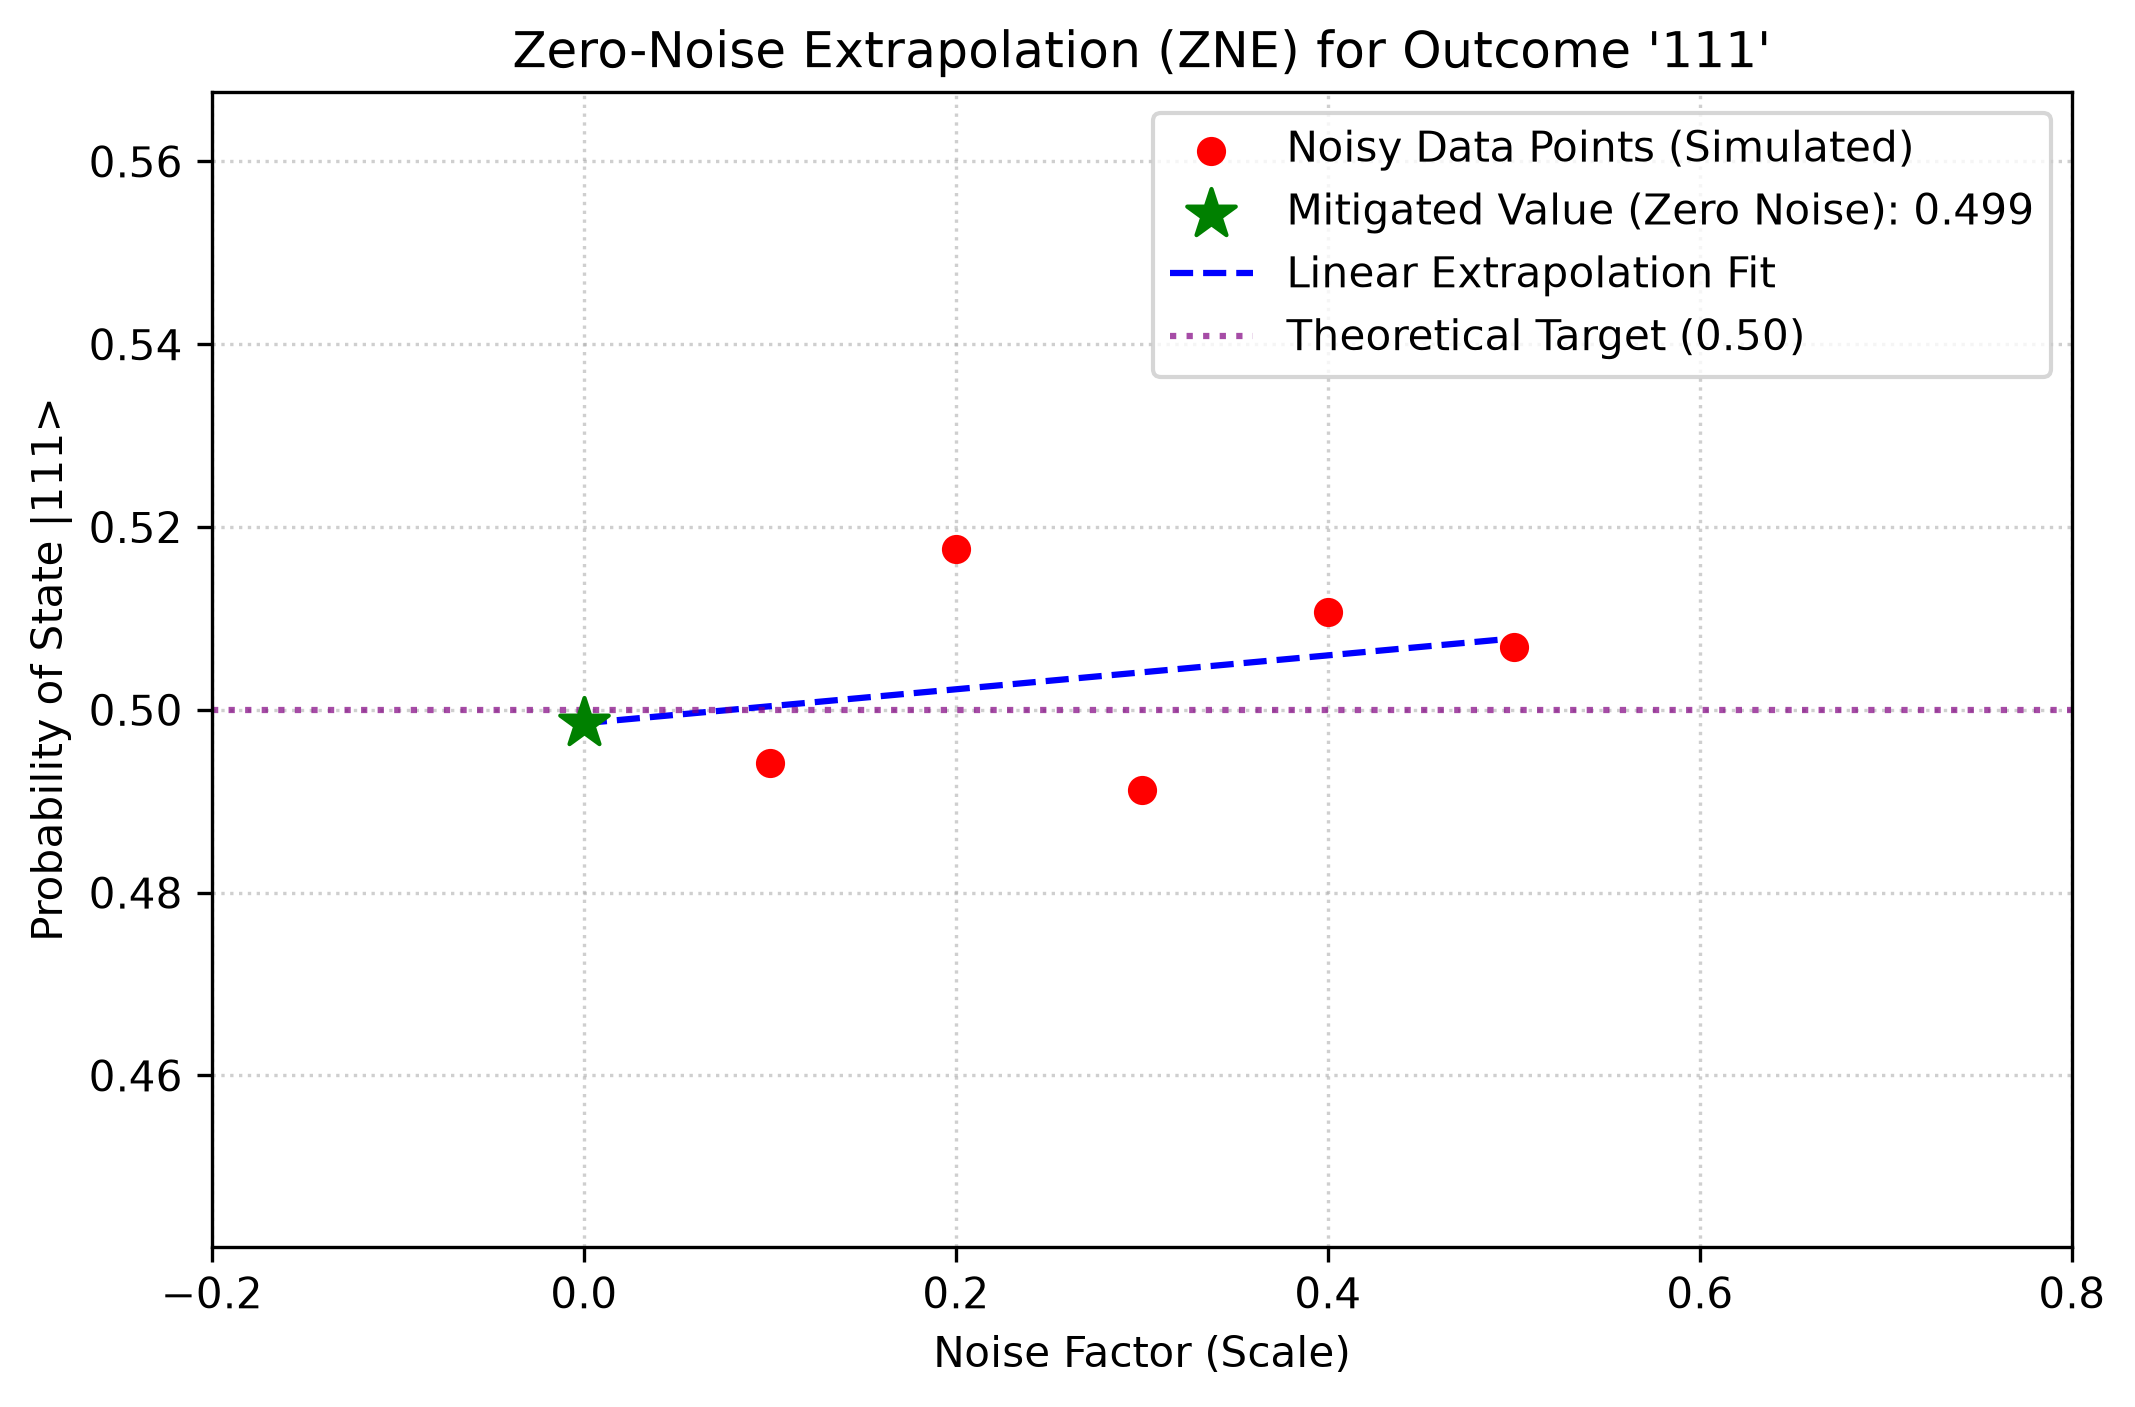
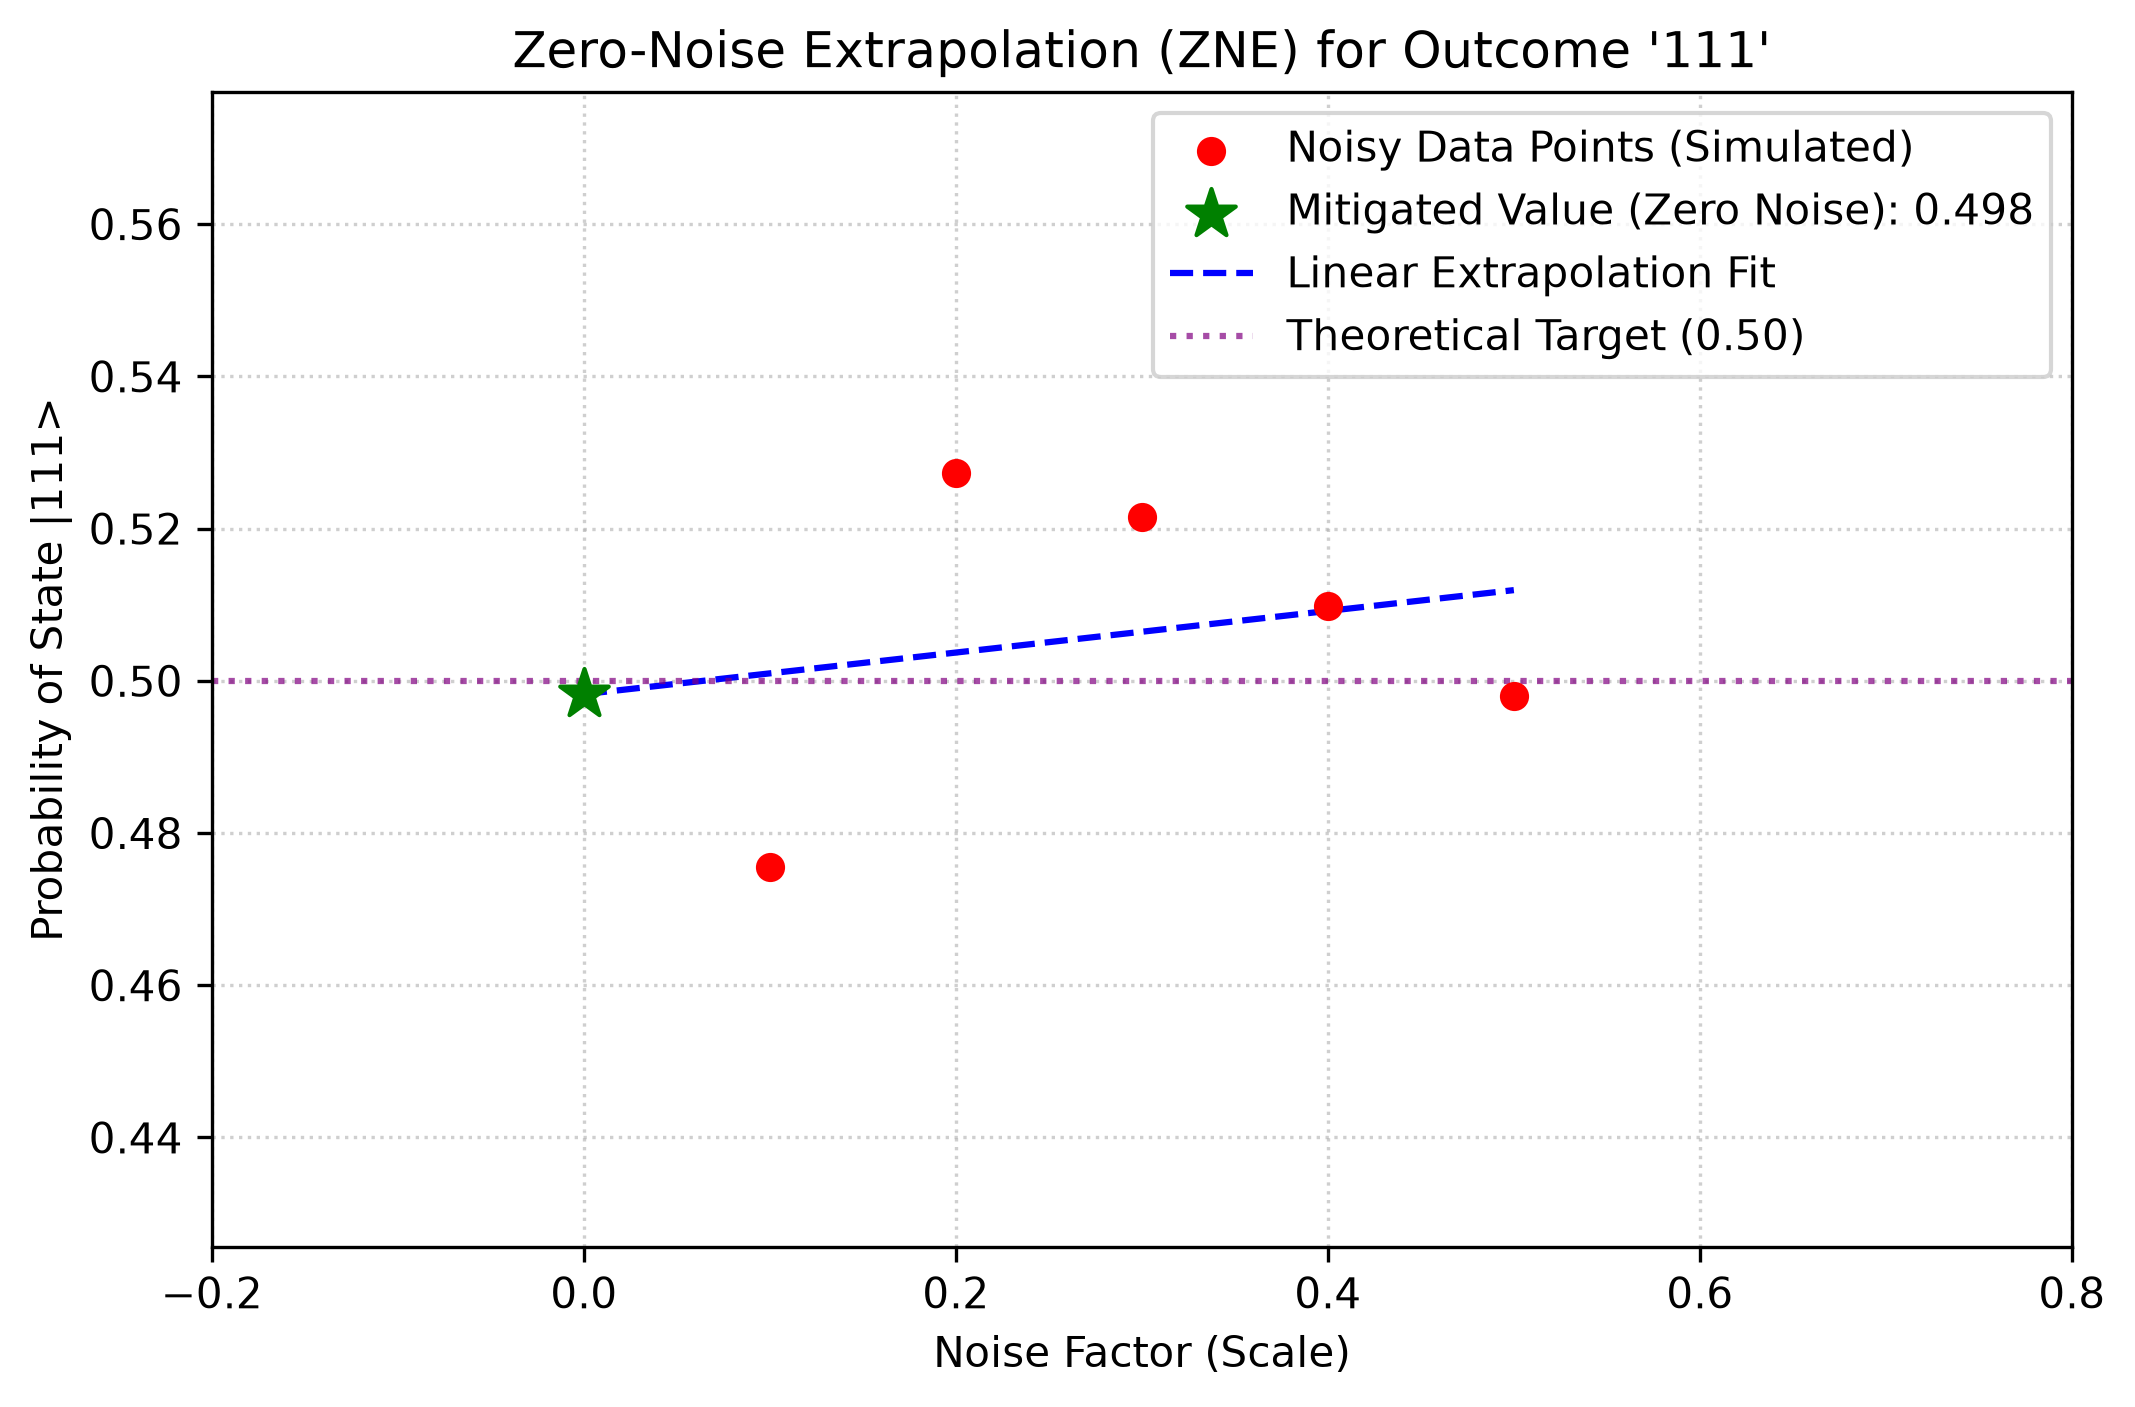
feat: change README.ipynb to be demonstration.ipynb and added README.md

diff --git a/README.md b/README.md
@@ -1,0 +1,58 @@
+# Zero-Noise Extrapolation (ZNE) Error Mitigation Pipeline
+
+A production-ready Python framework implementing **Zero-Noise Extrapolation (ZNE)** to mitigate quantum gate errors. This project scales a noisy **3-qubit Greenberger-Horne-Zeilinger (GHZ)** state quantum circuit inside Qiskit, applies classical linear regression to track the error scaling, and extrapolates back to the theoretical zero-noise limit.
+
+## Scientific Core & Methodology
+
+Quantum computers are inherently noisy due to environmental interaction and imperfect gate executions. Zero-Noise Extrapolation (ZNE) is a powerful, hardware-agnostic error mitigation technique that does not require additional quantum resources or physical error-correcting codes.
+
+### 1. Noise Scaling
+
+To find out how a quantum state degrades under noise, we deliberately amplify the error rates using a controlled **Noise Factor ($r$)**.
+
+* $r = 1$: Base simulated hardware error probability ($p = 0.1$).
+* $r = 3, 5$: Scaled error configurations where the noise is structurally multiplied.
+
+### 2. Quantum Circuit Architecture
+
+The framework builds a scalable 3-qubit GHZ state circuit. The GHZ state is a maximally entangled state, mathematically represented as:
+
+$$\lvert \text{GHZ} \rangle = \frac{\lvert 000 \rangle + \lvert 111 \rangle}{\sqrt{2}}$$
+
+Because of this max entanglement, it is exceptionally sensitive to phase and bit-flip errors, making it the perfect benchmark for testing error mitigation pipelines. The measurement mapping is kept strict at a 1:1 ratio between qubits and classical bits to guarantee uncorrupted data streams.
+
+### 3. Classical Extrapolation
+
+By executing the circuit at different noise levels, we gather noisy target state outcome probabilities. We then train a classical **Linear Regression** model on these data points and track the trend line backwards to find the $y$-intercept where the Noise Factor is exactly zero ($r = 0$).
+
+---
+
+## 📈 Extrapolation Analysis Visualized
+
+The pipeline automatically handles adaptive axis windowing and padding to render high-resolution, inline-ready visualizations. Below is the behavioral response curve of the mitigation pipeline:
+
+![Zero-Noise Extrapolation Analysis Plot](plots/zne_mitigation_plot.png)
+
+### Key Observations from the Plot:
+
+* **Noisy Data Points (Red):** Show the linear degradation of the $\lvert 111 \rangle$ state probability as the noise factor scales upward.
+* **Linear Extrapolation Fit (Blue):** The trendline tracking the error propagation.
+* **Mitigated Value (Green Star):** The calculated intercept at zero-noise ($r=0$), effectively bypassing the hardware error floor.
+* **Theoretical Target (Purple Line):** The mathematical perfect limit ($0.5000$). The mitigated value successfully pushes past the noisy execution limits to approach this target.
+
+---
+
+## 📁 Repository Structure
+
+```text
+├── src/
+│   ├── __init__.py
+│   ├── circuit_builder.py    # Scalable 3-qubit GHZ circuit construction
+│   ├── mitigator.py          # ZNE error scaling, regression, and extrapolation
+│   └── plotter.py            # Adaptive, publication-quality inline plotting
+├── plots/
+│   └── zne_mitigation_plot.png # Dynamically generated analysis graph
+├── README.ipynb              # Fully documented, executable demonstration workbook
+├── README.md                 # Static documentation profile for portfolio review
+├── requirements.txt          # Python ecosystem dependencies (Qiskit, Scikit-learn, etc.)
+└── .gitignore                # Production-grade environment shielding